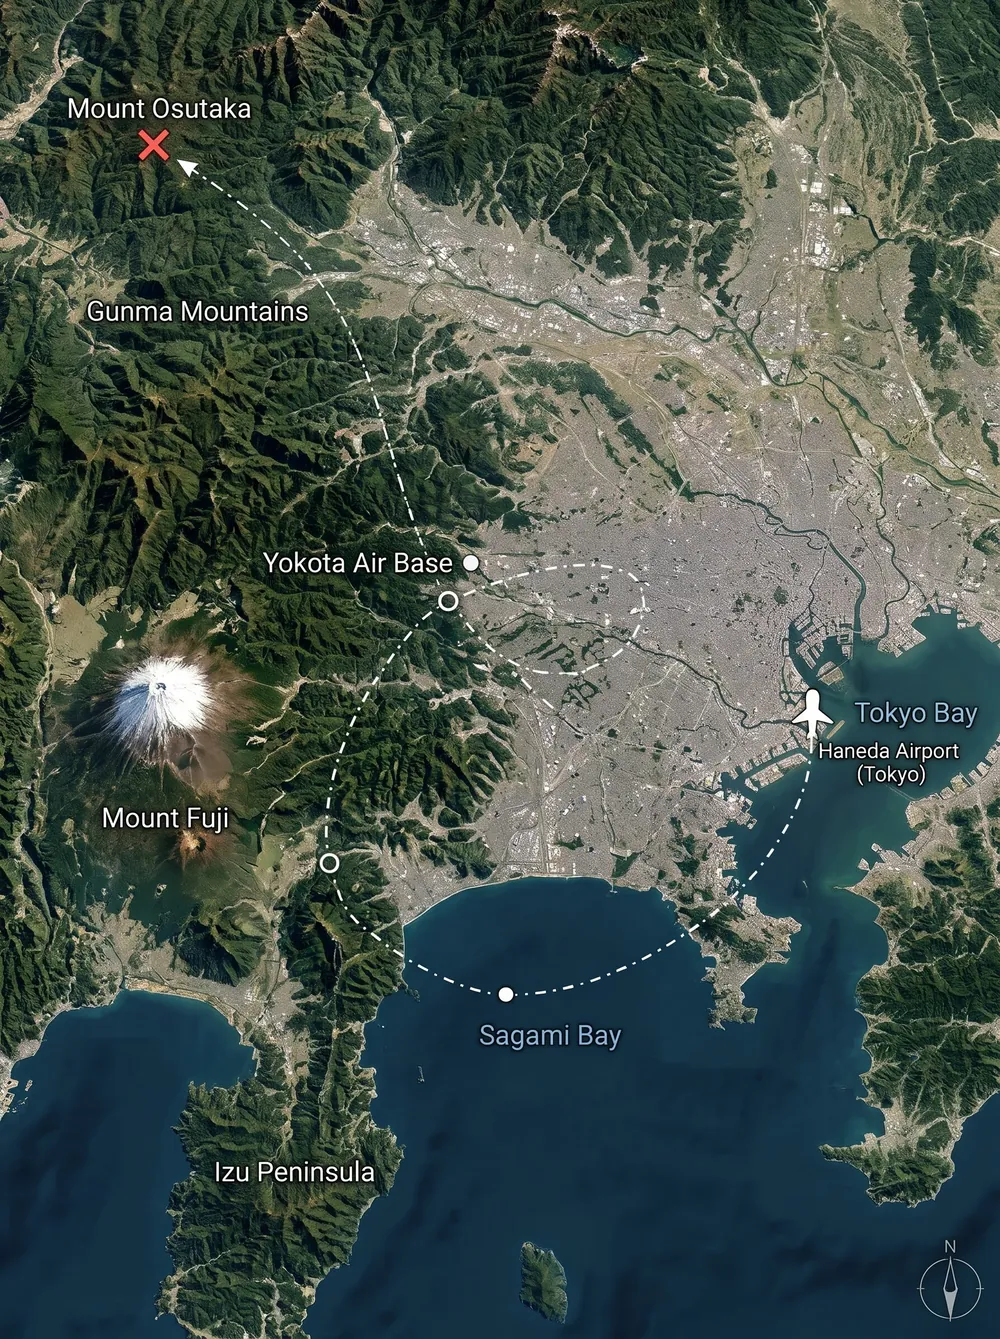
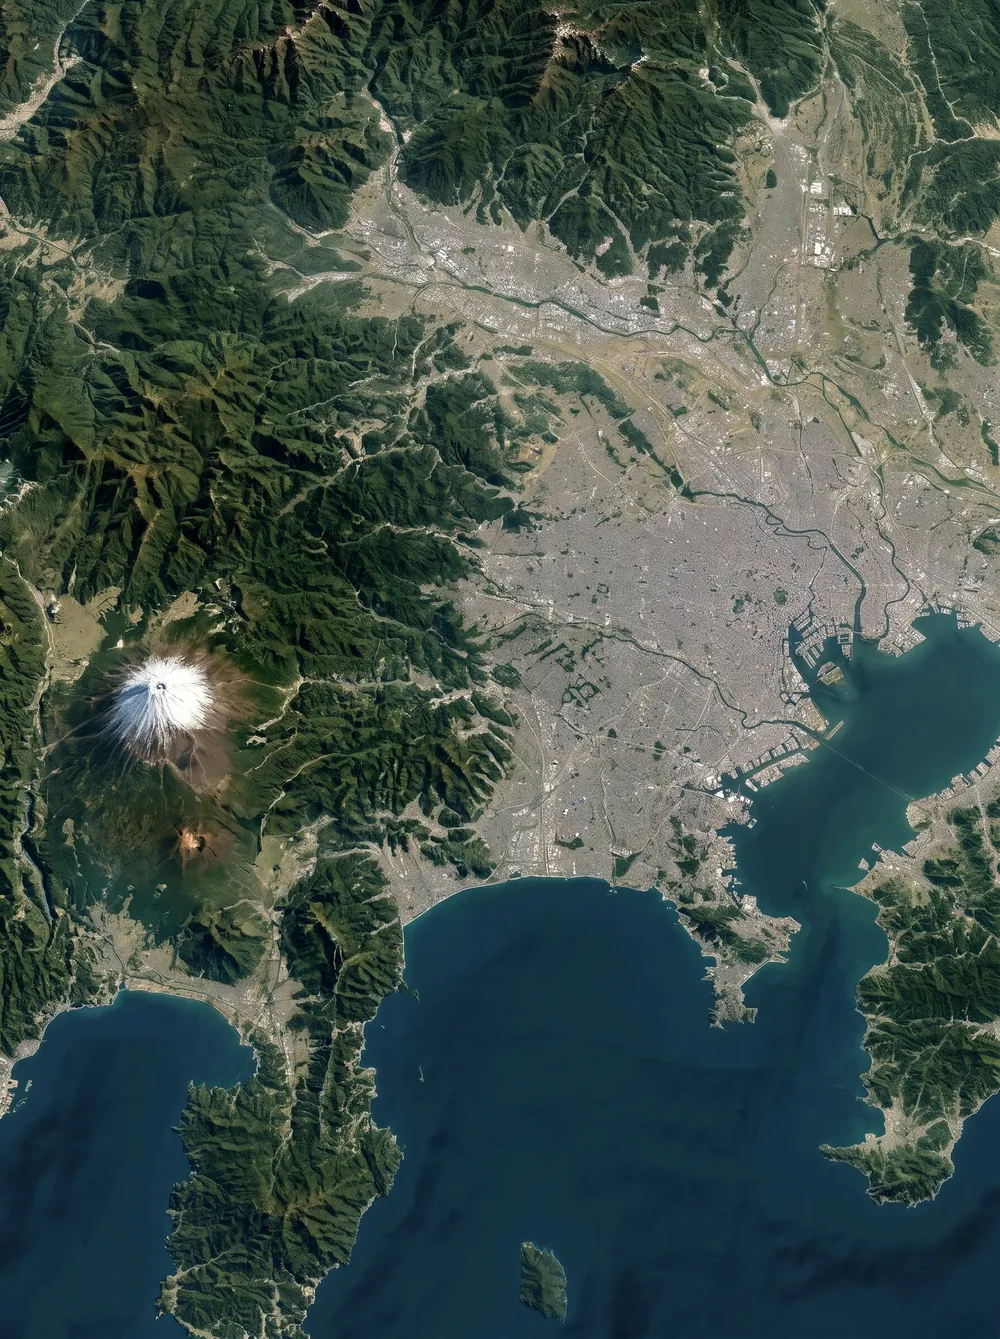
Hangar Escola: mapa do JAL 123 com imagem limpa, legendas em português e tracejado branco que se desenha com o avião
Claude-Session: https://claude.ai/code/session_01PxKViBYL6qRqF4hkoHqSJb

diff --git a/aviao/desastres.js b/aviao/desastres.js
@@ -21,8 +21,21 @@ function mapaJal123() {
     <defs><filter id="dzGlow" x="-20%" y="-20%" width="140%" height="140%"><feGaussianBlur stdDeviation="6" result="b"/><feMerge><feMergeNode in="b"/><feMergeNode in="SourceGraphic"/></feMerge></filter>
       <filter id="dzShadow" x="-50%" y="-50%" width="200%" height="200%"><feDropShadow dx="10" dy="14" stdDeviation="6" flood-color="#000" flood-opacity=".55"/></filter></defs>
     <image href="assets/jal123-mapa.webp" x="0" y="0" width="1493" height="2000" preserveAspectRatio="xMidYMid slice"/>
+    <mask id="dzReveal" maskUnits="userSpaceOnUse" x="0" y="0" width="1493" height="2000"><path id="dzRevealPath" d="${JAL123_ROTA}" fill="none" stroke="#fff" stroke-width="40" stroke-linecap="round" stroke-linejoin="round"/></mask>
     <path id="dzPath" d="${JAL123_ROTA}" class="dz-route"/>
+    <path d="${JAL123_ROTA}" class="dz-route-dash" mask="url(#dzReveal)"/>
+    <g class="dz-labels">
+      <text x="1150" y="1010" text-anchor="middle">Haneda</text><text x="1150" y="1048" text-anchor="middle" class="dz-lbl-s">(Tóquio)</text>
+      <text x="1400" y="1330" text-anchor="middle" class="dz-lbl-w">Baía de Tóquio</text>
+      <text x="820" y="1680" text-anchor="middle" class="dz-lbl-w">Baía de Sagami</text>
+      <text x="440" y="1760" text-anchor="middle">Península de Izu</text>
+      <text x="250" y="1230" text-anchor="middle">Monte Fuji</text>
+      <circle cx="706" cy="842" r="12" class="dz-dot"/><text x="690" y="855" text-anchor="end">Base de Yokota</text>
+      <text x="300" y="480" text-anchor="middle">Montanhas de Gunma</text>
+      <text x="240" y="170" text-anchor="middle">Cume Osutaka</text>
+    </g>
     <g id="dzMarks"></g>
+    <path d="M206 196 l48 48 M254 196 l-48 48" class="dz-x"/>
     <g id="dzPlane"><circle r="62" class="dz-plane-halo"/><g transform="scale(1.9)" filter="url(#dzShadow)">${AVIAO_TOPO}</g></g>
   </svg>`;
 }
@@ -195,7 +208,7 @@ function mostrar() {
   // Marcas dos eventos sobre a rota
   const path = $('#dzPath'), L = path.getTotalLength();
   a.fr = a.linha.map(([, , v]) => fracDe(path, v));
-  $('#dzMarks').innerHTML = a.fr.map((f, i) => { const p = path.getPointAtLength(L * f); return `<g class="dz-mark" data-i="${i}"><circle cx="${p.x}" cy="${p.y}" r="16"/></g>`; }).join('');
+  $('#dzMarks').innerHTML = a.fr.map((f, i) => { const p = path.getPointAtLength(L * f); return `<g class="dz-mark" data-i="${i}"><circle cx="${p.x}" cy="${p.y}" r="15"/></g>`; }).join('');
   $('#dzLine').innerHTML = a.linha.map(([h, t], i) => `<li><button type="button" data-i="${i}"><b>${h}</b><span>${esc(t)}</span></button></li>`).join('');
   irPara(a.linha.length - 1, false);
 }
@@ -219,7 +232,7 @@ function irPara(i, animar = true) {
     const p = path.getPointAtLength(L * f), q = path.getPointAtLength(Math.min(L, L * f + 6)), r = path.getPointAtLength(Math.max(0, L * f - 6));
     const ang = Math.atan2(q.y - r.y, q.x - r.x) * 180 / Math.PI + 90;
     plane.setAttribute('transform', `translate(${p.x} ${p.y}) rotate(${ang})`); plane.dataset.f = f;
-    path.style.strokeDasharray = `${L * f} ${L}`;
+    const rv = $('#dzRevealPath'); if (rv) rv.style.strokeDasharray = `${L * f} ${L + 100}`;
     if (k < 1) tocando = requestAnimationFrame(frame);
   };
   tocando = requestAnimationFrame(frame);

diff --git a/aviao/sw.js b/aviao/sw.js
@@ -1,7 +1,7 @@
 /* Service worker: o app abre e funciona offline. */
-const CACHE = 'hangar-escola-v102';
+const CACHE = 'hangar-escola-v103';
 // Os arquivos levam "?v=" no index.html: ao mudar a versão, o celular nunca mistura CSS/JS antigo com HTML novo.
-const FILES = ['./', 'index.html', 'style.css?v=102', 'avioes.js?v=102', 'catalogo747.js?v=102', 'cockpit747.js?v=102', 'motor3d.js?v=102', 'motor747.js?v=102', 'meteo.js?v=102', 'radio.js?v=102', 'historia.js?v=102', 'desastres.js?v=102', 'app.js?v=102', 'icon.svg', 'manifest.webmanifest', 'assets/747-lateral.jpg', 'assets/747-frontal.jpg', 'assets/747-motor.jpg', 'assets/747-superior.png', 'assets/747-lado.webp', 'assets/747-lado-prof.webp', 'assets/747-tras.webp', 'assets/747-tras-trem.webp', 'assets/bank-angle.mp3', 'assets/v1.mp3', 'assets/nuvem-cb.webp', 'assets/nuvem-cu.webp', 'assets/nuvem-ci.webp', 'assets/nuvem-cc.webp', 'assets/nuvem-cs.webp', 'assets/nuvem-ac.webp', 'assets/nuvem-as.webp', 'assets/nuvem-ns.webp', 'assets/nuvem-sc.webp', 'assets/nuvem-st.webp', 'assets/nuvens-atlas.webp', 'assets/historia-1881.webp', 'assets/historia-vevey.webp', 'assets/historia-serraria.webp', 'assets/historia-dominguez.webp', 'assets/historia-curtiss.webp', 'assets/jal123-mapa.webp'];
+const FILES = ['./', 'index.html', 'style.css?v=103', 'avioes.js?v=103', 'catalogo747.js?v=103', 'cockpit747.js?v=103', 'motor3d.js?v=103', 'motor747.js?v=103', 'meteo.js?v=103', 'radio.js?v=103', 'historia.js?v=103', 'desastres.js?v=103', 'app.js?v=103', 'icon.svg', 'manifest.webmanifest', 'assets/747-lateral.jpg', 'assets/747-frontal.jpg', 'assets/747-motor.jpg', 'assets/747-superior.png', 'assets/747-lado.webp', 'assets/747-lado-prof.webp', 'assets/747-tras.webp', 'assets/747-tras-trem.webp', 'assets/bank-angle.mp3', 'assets/v1.mp3', 'assets/nuvem-cb.webp', 'assets/nuvem-cu.webp', 'assets/nuvem-ci.webp', 'assets/nuvem-cc.webp', 'assets/nuvem-cs.webp', 'assets/nuvem-ac.webp', 'assets/nuvem-as.webp', 'assets/nuvem-ns.webp', 'assets/nuvem-sc.webp', 'assets/nuvem-st.webp', 'assets/nuvens-atlas.webp', 'assets/historia-1881.webp', 'assets/historia-vevey.webp', 'assets/historia-serraria.webp', 'assets/historia-dominguez.webp', 'assets/historia-curtiss.webp', 'assets/jal123-mapa.webp'];
 
 self.addEventListener('install', (e) => {
   e.waitUntil(caches.open(CACHE).then((c) => c.addAll(FILES)).then(() => self.skipWaiting()));

diff --git a/aviao/index.html b/aviao/index.html
@@ -13,7 +13,7 @@
   <link rel="preconnect" href="https://fonts.googleapis.com">
   <link rel="preconnect" href="https://fonts.gstatic.com" crossorigin>
   <link href="https://fonts.googleapis.com/css2?family=Barlow+Condensed:wght@500;600;700&family=IBM+Plex+Mono:wght@400;500&family=IBM+Plex+Sans:wght@400;500;600&display=swap" rel="stylesheet">
-  <link rel="stylesheet" href="style.css?v=102">
+  <link rel="stylesheet" href="style.css?v=103">
 </head>
 <body>
   <!-- Intro: o avião decola pela pista iluminada e aparece o nome do app (toque para pular) -->
@@ -981,16 +981,16 @@
       </div>
     </section>
   </aside>
-  <script src="avioes.js?v=102"></script>
-  <script src="catalogo747.js?v=102"></script>
-  <script src="cockpit747.js?v=102"></script>
-  <script src="motor3d.js?v=102"></script>
-  <script src="motor747.js?v=102"></script>
-  <script src="meteo.js?v=102"></script>
-  <script src="radio.js?v=102"></script>
-  <script src="historia.js?v=102"></script>
-  <script src="desastres.js?v=102"></script>
-  <script src="app.js?v=102"></script>
+  <script src="avioes.js?v=103"></script>
+  <script src="catalogo747.js?v=103"></script>
+  <script src="cockpit747.js?v=103"></script>
+  <script src="motor3d.js?v=103"></script>
+  <script src="motor747.js?v=103"></script>
+  <script src="meteo.js?v=103"></script>
+  <script src="radio.js?v=103"></script>
+  <script src="historia.js?v=103"></script>
+  <script src="desastres.js?v=103"></script>
+  <script src="app.js?v=103"></script>
   <script>
     // No APK os arquivos já vêm dentro do app; o service worker é só para o site.
     const nativo = !!(window.Capacitor && window.Capacitor.isNativePlatform && window.Capacitor.isNativePlatform());

diff --git a/aviao/style.css b/aviao/style.css
@@ -809,8 +809,14 @@ input[type="range"] { width: 100%; accent-color: var(--magenta); }
 .dz-plane rect { fill: #c9d2da; }
 .dz-plane .dz-plane-hump { fill: #dfe6ec; stroke: none; }
 .dz-plane-halo { fill: #ffffff; opacity: .28; animation: dzHalo 1.6s ease-in-out infinite alternate; }
-.dz-mark circle { fill: none; stroke: none; }
-.dz-mark.is-on circle { fill: none; stroke: none; }
+.dz-mark circle { fill: #fff; stroke: #1b2630; stroke-width: 4; opacity: 0; transition: opacity .4s; }
+.dz-mark.is-on circle { opacity: 1; }
+.dz-route-dash { fill: none; stroke: #fff; stroke-width: 6; stroke-dasharray: 26 14 4 14; stroke-linecap: round; }
+.dz-labels text { font: 600 46px var(--body); fill: #fff; paint-order: stroke; stroke: rgba(0,0,0,.55); stroke-width: 6px; stroke-linejoin: round; }
+.dz-labels .dz-lbl-s { font-size: 36px; }
+.dz-labels .dz-lbl-w { fill: #cfe0ef; }
+.dz-dot { fill: #fff; stroke: #1b2630; stroke-width: 3; }
+.dz-x { fill: none; stroke: #ff5a52; stroke-width: 12; stroke-linecap: round; }
 .dz__linehead { display: flex; flex-wrap: wrap; justify-content: space-between; align-items: center; gap: 8px; margin: 12px 0 6px; }
 .dz__line { list-style: none; margin: 0; padding: 0; display: grid; gap: 2px; border-left: 2px solid var(--line); }
 .dz__line button { display: grid; grid-template-columns: 54px 1fr; gap: 10px; width: 100%; text-align: left; border: 0; background: none; color: var(--muted); padding: 7px 10px; font: inherit; font-size: 14px; cursor: pointer; border-radius: 0 8px 8px 0; position: relative; }
